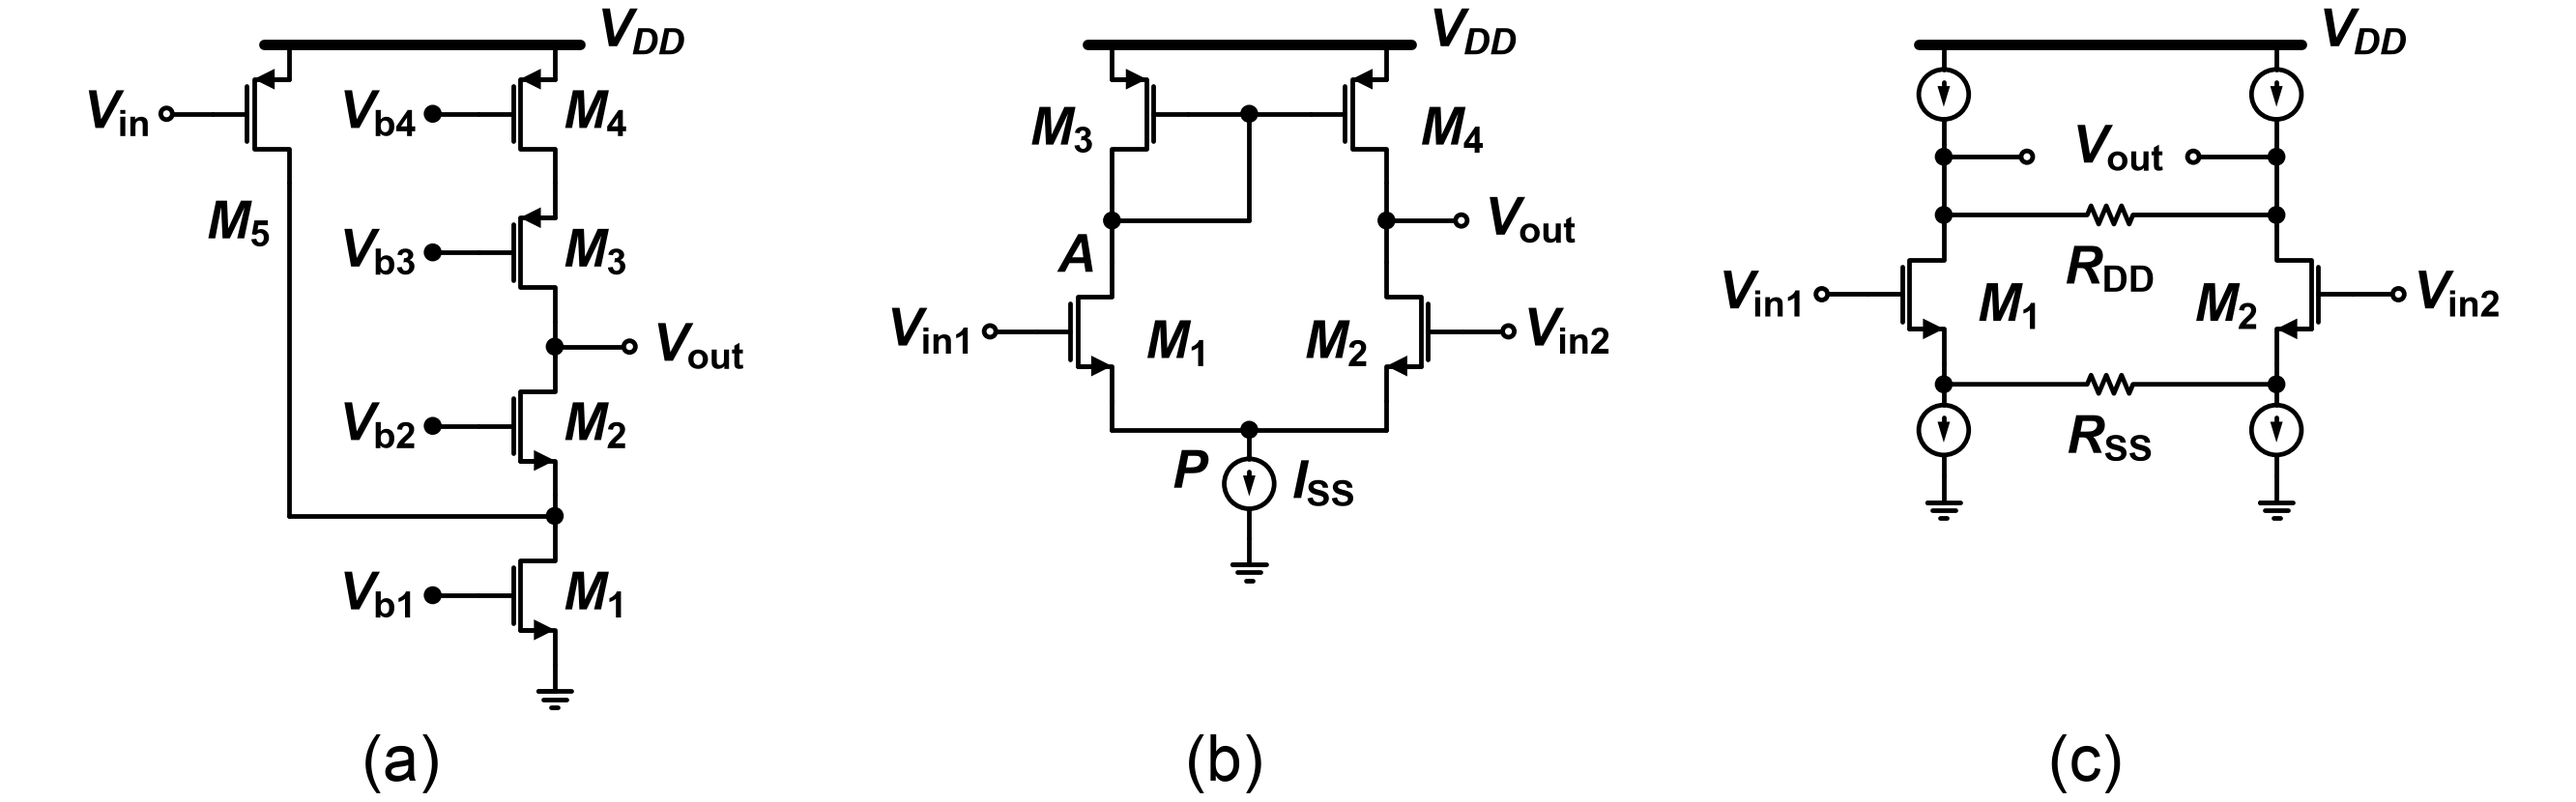
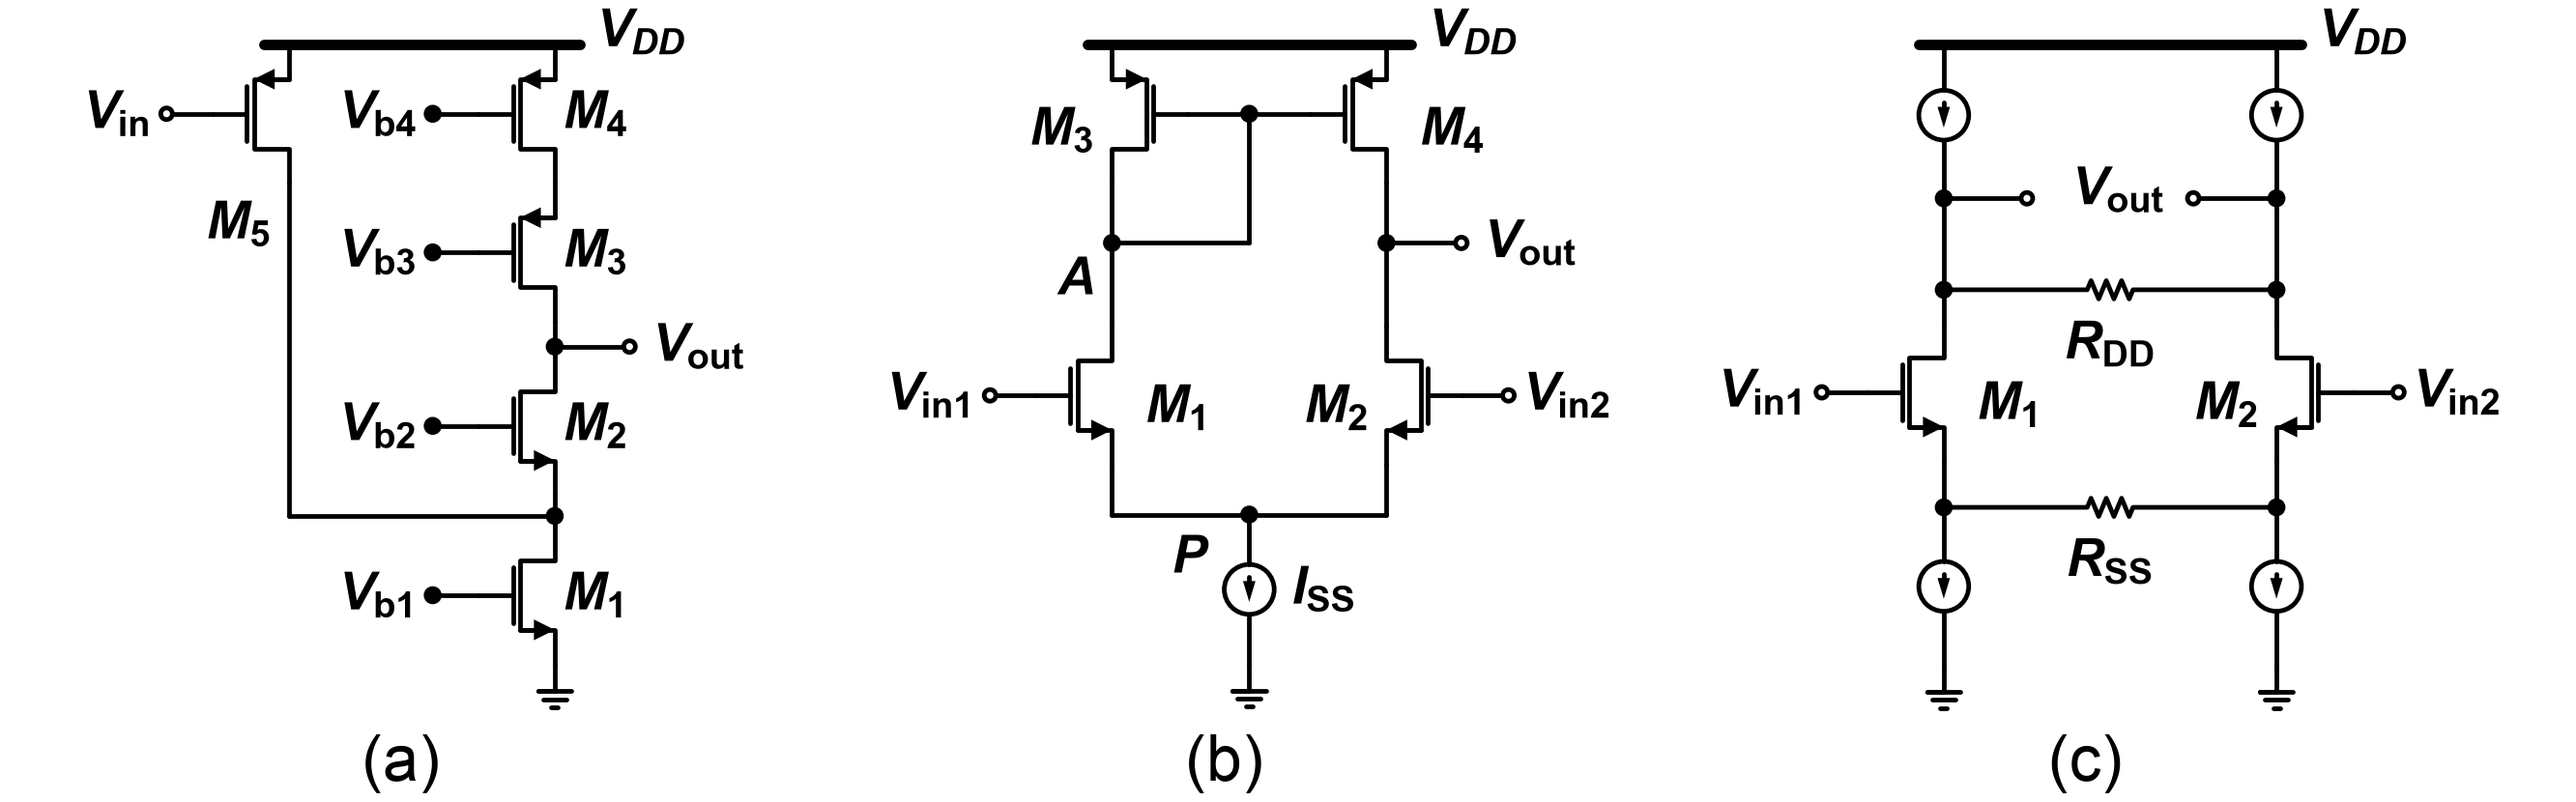
fix(2023-1 중간): apply redraw review

diff --git a/from_the_past/md/2023-1_중간/figures/redrawn/fig-Q3.py b/from_the_past/md/2023-1_중간/figures/redrawn/fig-Q3.py
@@ -4,7 +4,7 @@ from schem_style import OPEN_R, Resistor, caption, dot, gate_terminal, new_drawi
 
 L = 0.12        # 소자 사이 짧은 배선
 GAP = 0.2       # 소자 라벨과 기호 사이 간격
-RAIL_Y = 8.0    # 세 패널 레일 높이
+RAIL_Y = 8.0    # 세 패널 레일 높이. (b)·(c)는 세로 배선을 늘려 접지를 (a) 접지 높이에 맞춘다
 CAP_Y = -0.75   # 캡션 높이
 
 
@@ -56,30 +56,30 @@ def panel_b(d, x0):
     # 게이트 공통선과 가운데 게이트 접속점, 아래로 A까지 (다이오드 연결)
     d.add(elm.Line().at(m3.gate).tox(xm)); g = dot(d)
     d.add(elm.Line().at(g.center).tox(m4.gate))
-    d.add(elm.Line().down().at(m3.drain).length(0.45)); a = dot(d)
+    d.add(elm.Line().down().at(m3.drain).length(0.72)); a = dot(d)
     d.add(elm.Line().down().at(g.center).toy(a.center))
     d.add(elm.Line().left().tox(xl))
     d.add(elm.Label().right().at((xl - 0.3, a.center.y - 0.2)).label(r"$A$", halign="right", valign="top"))
-    d.add(elm.Line().down().at(m4.drain).length(0.45)); vout = dot(d)
+    d.add(elm.Line().down().at(m4.drain).length(0.72)); vout = dot(d)
     d.add(elm.Line().right().at(vout.center).length(0.9))
     d.add(elm.Dot(open=True, radius=OPEN_R).label(r"$V_\mathrm{out}$", "right", ofst=GAP))
     # 입력 쌍: M1 보통, M2 좌우 반전
-    d.add(elm.Line().down().at(a.center).length(0.5))
+    d.add(elm.Line().down().at(a.center).length(1.0))
     m1 = nmos(d, at=d.here, anchor="drain")
     d.add(elm.Label().right().at((xl + 0.3, m1.center.y - 0.25)).label(r"$M_\mathrm{1}$", halign="left"))
-    d.add(elm.Line().down().at(vout.center).length(0.5))
+    d.add(elm.Line().down().at(vout.center).length(1.0))
     m2 = nmos(d, at=d.here, anchor="drain", mirror=True)
     d.add(elm.Label().right().at((xr - 0.3, m2.center.y - 0.25)).label(r"$M_\mathrm{2}$", halign="right"))
     gate_terminal(d, m1.gate, r"$V_\mathrm{in1}$", open_=True)
     gate_terminal(d, m2.gate, r"$V_\mathrm{in2}$", open_=True, right=True)
     # 두 소스 → 아래 → 가운데 P 접속점 → I_SS → 접지
-    ybot = m1.source.y - 0.35
+    ybot = m1.source.y - 0.6
     d.add(elm.Line().down().at(m1.source).toy(ybot))
     d.add(elm.Line().right().tox(xm)); p = dot(d)
     d.add(elm.Line().right().tox(xr))
     d.add(elm.Line().up().toy(m2.source.y))
     d.add(elm.Label().right().at((xm - 0.6, ybot - 0.28)).label(r"$P$", halign="right", valign="top"))
-    iss = d.add(elm.SourceI().down().at(p.center).length(1.3).scale(0.6)
+    iss = d.add(elm.SourceI().down().at(p.center).length(1.8).scale(0.6)
                 .label(r"$I_\mathrm{SS}$", "bottom", ofst=0.35))
     d.add(elm.Ground().at(iss.end).scale(0.8))
     caption(d, (xm - 0.4, CAP_Y), "(b)")
@@ -87,13 +87,13 @@ def panel_b(d, x0):
 
 def half_c(d, x, mirror):
     """(c)의 한쪽 세로줄 위→아래: 전류원, 첫 접속점, 둘째 접속점, M1/M2, n1/n2 접속점, 전류원, 접지."""
-    top = d.add(elm.SourceI().down().at((x, RAIL_Y)).length(1.2).scale(0.6))
+    top = d.add(elm.SourceI().down().at((x, RAIL_Y)).length(1.7).scale(0.6))
     d.add(elm.Line().down().at(top.end).length(0.15)); out = dot(d)
-    d.add(elm.Line().down().at(out.center).length(0.7)); tap = dot(d)
-    d.add(elm.Line().down().at(tap.center).length(L))
+    d.add(elm.Line().down().at(out.center).length(1.1)); tap = dot(d)
+    d.add(elm.Line().down().at(tap.center).length(0.4))
     m = nmos(d, at=d.here, anchor="drain", mirror=mirror)
-    d.add(elm.Line().down().at(m.source).length(0.25)); n = dot(d)
-    bot = d.add(elm.SourceI().down().at(n.center).length(1.1).scale(0.6))
+    d.add(elm.Line().down().at(m.source).length(0.55)); n = dot(d)
+    bot = d.add(elm.SourceI().down().at(n.center).length(1.9).scale(0.6))
     d.add(elm.Ground().at(bot.end).scale(0.8))
     return out, tap, m, n
 

diff --git a/docs/superpowers/reports/redraw/2023-1_중간.md b/docs/superpowers/reports/redraw/2023-1_중간.md
@@ -1,0 +1,38 @@
+# 2023-1 중간 다시 그린 그림 검토 (절차 C)
+
+- 대상: 738fed0 (`fig-Q2`, `fig-Q3`, `fig-Q4`의 `.py`, `.png`)
+- `draw_exam.py … --compare`: 종료 코드 0. ERROR·WARN 없음. 실행 뒤 `git status --short`는 비어 있다.
+- 넷리스트: 세 그림의 모든 줄을 따라가며 단자가 적힌 노드에 닿는지 확인했다. 어긋난 연결은 없다.
+- 접속점: Q2(a) 5개(③ 포함), Q2(b) 2개, Q3(a) 2개, Q3(b) 4개, Q3(c) 6개, Q4 3개. 모두 배치 bullet과 같다. 교차는 없고, 점 없는 교차도 없다.
+- 반전·화살표: Q_REF1(npn)·Q_REF2·Q3(pnp) 좌우 반전, pnp 화살표는 막대 쪽, npn 화살표는 바깥. Q3(b) M3·M2, Q3(c) M2, Q4 M2 반전. 전류원 화살표는 모두 아래, I_C,M 화살표는 Q_M 컬렉터로 아래. 모두 bullet과 같다.
+- 라벨 간격: 따로 잰 값(432 dpi, 라벨 잉크와 나머지 잉크의 최소 거리). Q2(b) V_CC 0.220, Q3(b) P 0.220, Q4 R_D + ΔR_D 0.208. 그 밖에 X_1 0.243, X_2 0.266, I_REF 0.243, A 0.220, I_SS 0.231, M_5 0.220, R_DD 0.250, R_SS 0.246. 모두 0.2단위 이상이다.
+- `.py`: `.label()`은 모두 `d.add()` 전에 체인으로 붙었다. FET는 `nmos`/`pmos`로, BJT는 `.scale()` 없이 놓였다. `.scale()`은 SourceI(0.6), Ground·Vdd(0.8)에만 있다. `FONT_SIZE`, `LW`, `INCHES_PER_UNIT` 재정의나 lw·fontsize 지정은 없다. `Arrow(arrowwidth=0.22, arrowlength=0.35)`는 2021 중간 Q5와 같은 값이라 지적하지 않는다.
+
+## 지적
+
+| 그림 | 항목 | 문제 | 제안 |
+|---|---|---|---|
+| Q3 | 패널 세로 비율 | Minor. 크롭에서는 (a)·(b)·(c)의 접지가 거의 같은 높이(캡션 바로 위)인데, 다시 그린 그림은 (a) 접지보다 (b)는 약 1.5단위, (c)는 약 2.3단위 높게 끝난다. (b)·(c) 아래에 빈 공간이 생긴다. 연결에는 영향이 없다. | (b)·(c)의 세로 배선(예: (c) 출력 접속점 사이, 전류원 길이, (b) A·Vout 아래 배선)을 늘려 접지를 (a)와 비슷한 높이로 내린다. 필수는 아니다. |
+
+Critical·Important 지적은 없다.
+
+## 손글씨 확인 (`> 참고:` 항목)
+
+| 그림 | 손글씨 항목 | 다시 그린 그림 |
+|---|---|---|
+| Q2(a) | I_REF 둘레 동그라미 | 없음 |
+| Q2(a) | I_REF 아래 세로선 낙서 | 없음 (I_REF–위 X1 배선 한 줄만 있음) |
+| Q2(a) | X_1 베이스 공통선 위 동그라미 | 없음 |
+| Q2(a) | Q_REF2 컬렉터 아래 검은 덩어리 | 없음. 보통 크기 접속점 하나만 있음(③, 지시대로) |
+| Q2(a) | "A_E", "2A_E", "5A_E" | 없음 |
+| Q2(a) | Q2 옆 "I_c2"와 화살표 | 없음 |
+| Q2(a) | 위쪽 밑줄·가로 획 | 없음 (레일 한 줄뿐) |
+| Q3(a) | M3·M4 위 X자 획 | 없음 |
+| Q3(a) | V_b1 둘레 세로 획 | 없음 |
+| Q3(a) | 왼쪽 손그림 회로와 "iout" | 없음 |
+| Q3(b) | "ΔI", "−2ΔI", "iout" 글자와 화살표 | 없음 |
+| Q3(b) | V_out 원 위 화살표 | 없음 |
+| Q3(b) | V_in2 오른쪽 밑줄 | 없음 |
+| Q4 | vout1 접속점 둘레 동그라미 | 없음 |
+| Q4 | "ρ1"과 점 | 없음 |
+| Q4 | P 둘레와 소스 가로선 위 동그라미 | 없음 |
